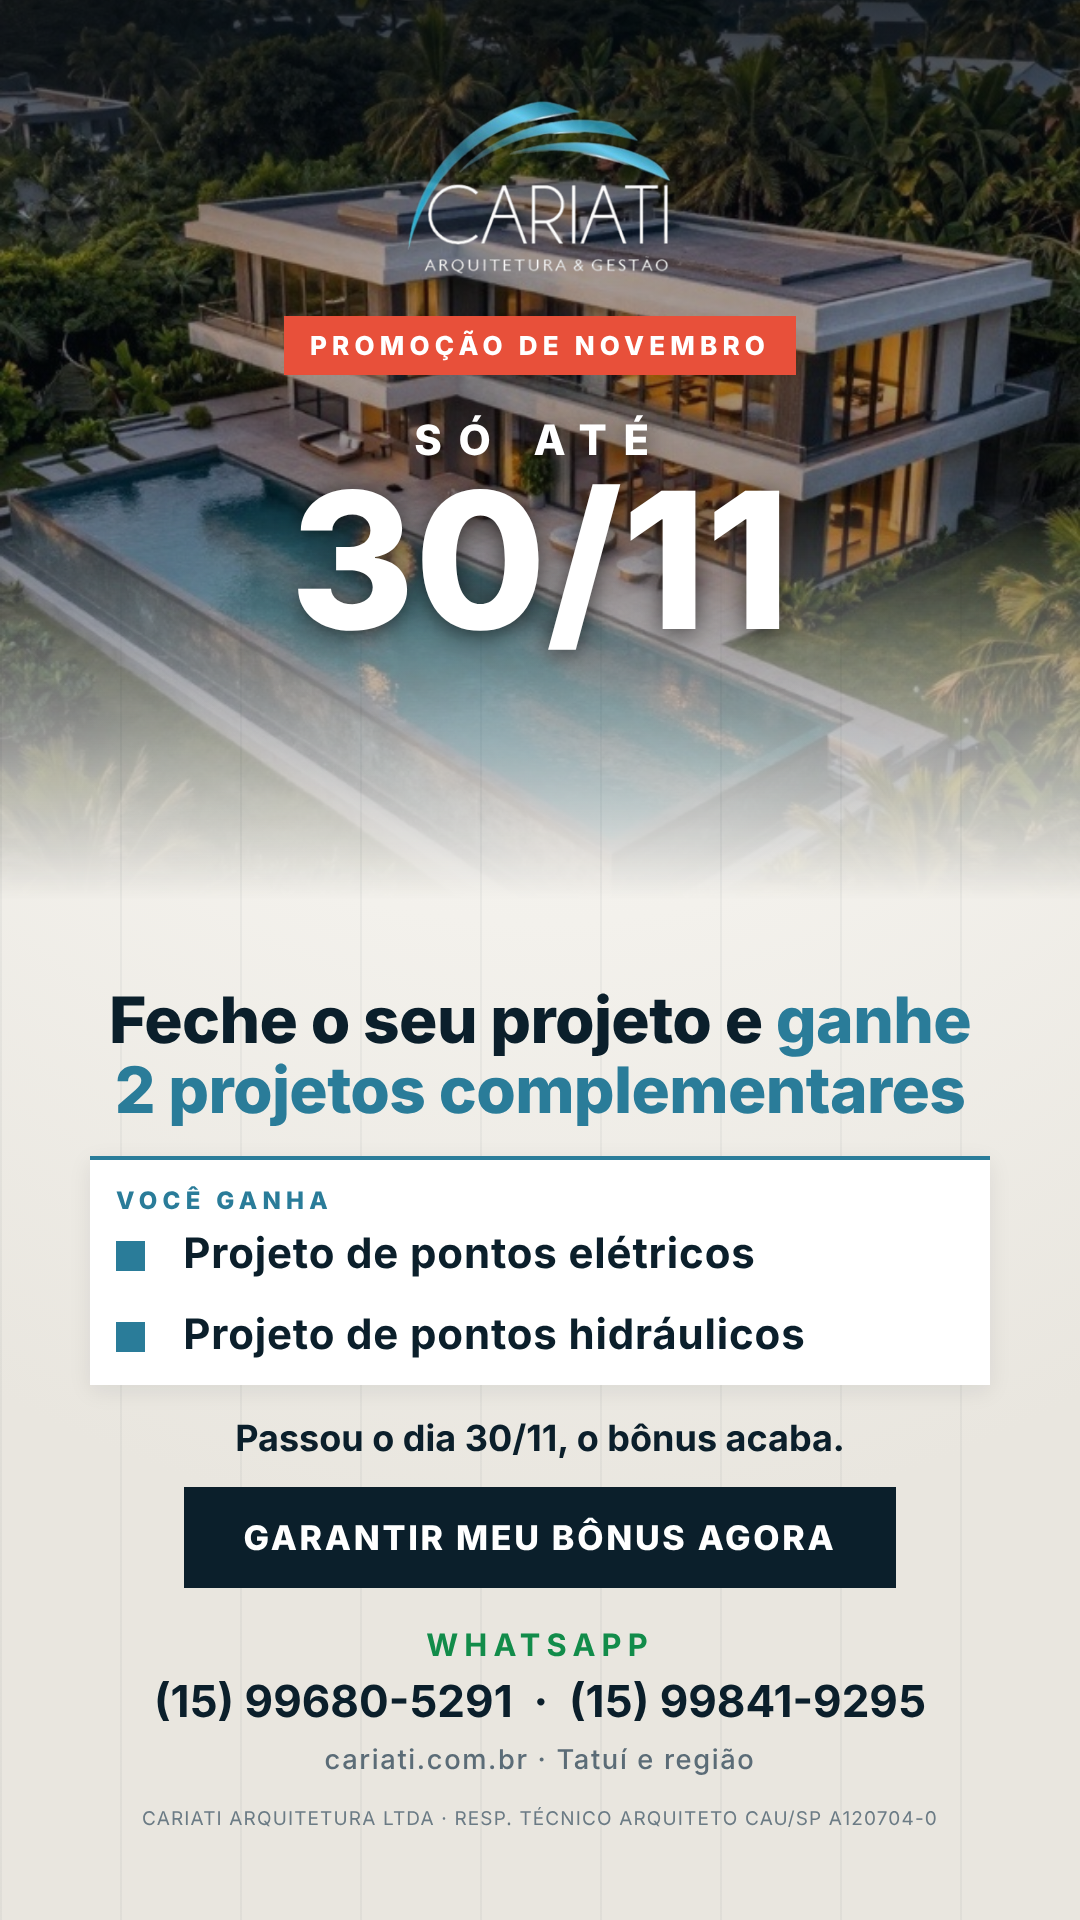
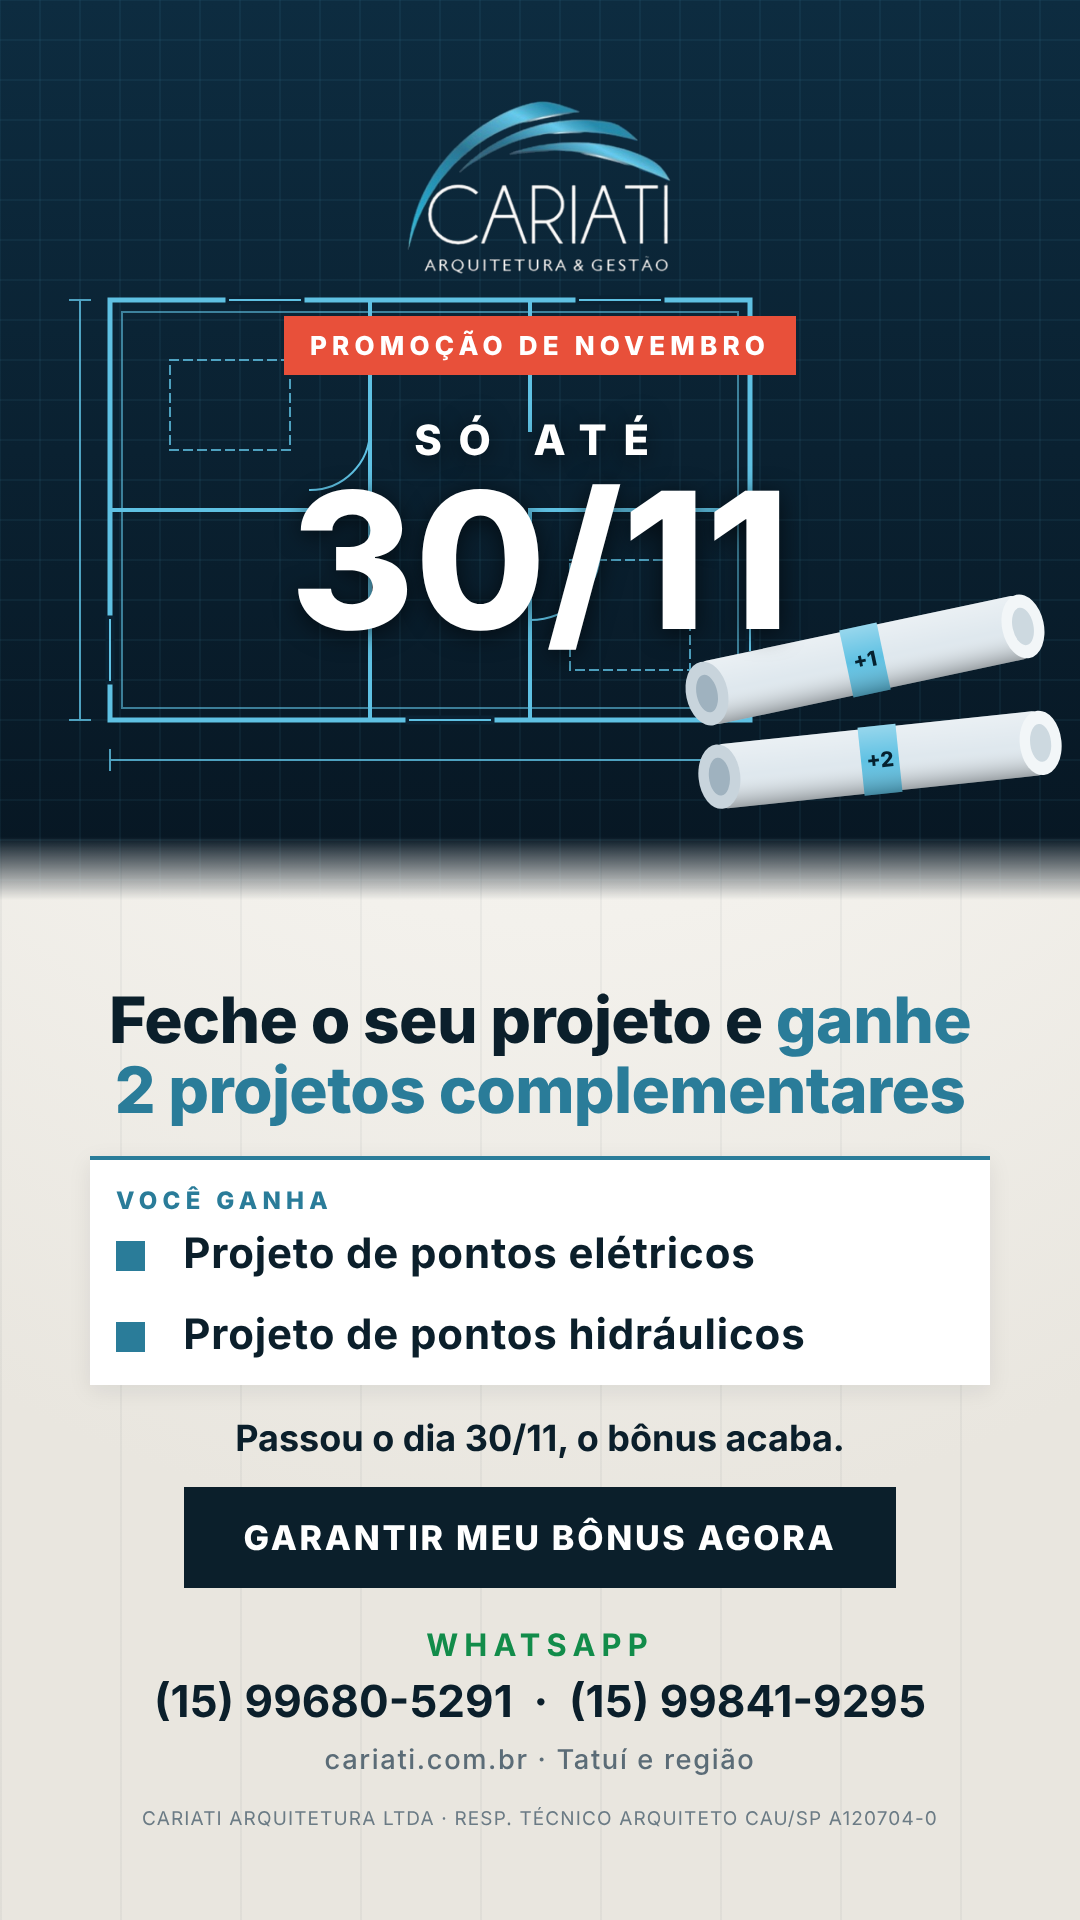
Promo November: blueprint background with two bonus plan rolls (+1, +2)
Claude-Session: https://claude.ai/code/session_012W4cPJrLBDcgKi33Cw4yCm

diff --git a/flyers_cariati/build.py b/flyers_cariati/build.py
@@ -42,6 +42,8 @@ h1 em{font-style:normal;color:#5fc1e3}
 .hero{position:absolute;left:0;top:0;width:100%;height:var(--hh);background-size:cover;background-position:center 35%}
 .hero{-webkit-mask-image:linear-gradient(180deg,#000 55%,transparent 100%);mask-image:linear-gradient(180deg,#000 55%,transparent 100%)}
 .hero:after{content:'';position:absolute;inset:0;background:linear-gradient(180deg,rgba(3,10,16,.78) 0%,rgba(3,10,16,.35) 30%,rgba(3,10,16,.45) 100%)}
+.hero.nb:after{display:none}
+.hero.nb svg{-webkit-mask-image:linear-gradient(180deg,#000 93%,transparent);mask-image:linear-gradient(180deg,#000 93%,transparent)}
 .ov{color:#fff;text-shadow:0 4px 24px rgba(0,0,0,.6)}
 .ovs{font-weight:800;letter-spacing:.4em;font-size:calc(var(--ds)*.22)}
 .ovd{font-weight:800;font-size:var(--ds);line-height:1}
@@ -167,12 +169,29 @@ def dica(n,hook,corpo,pratica):
             return '<img class="logo z" src="assets/logo.png" style="height:130px;align-self:flex-start">'+flex()+tag+sp(30)+h+sp(40)+'<div class="rule" style="margin:0"></div>'+sp(40)+body+sp(46)+box+flex()+sig+small+sp(10)
         return '<img class="logo z" src="assets/logo.png" style="height:100px;align-self:flex-start">'+flex()+tag+sp(18)+h+sp(26)+body+sp(34)+box+flex()+sig+small
     return fn
+
+def blueprint(H,ry,rs):
+    W=1080
+    g="".join(f'<line x1="{x}" y1="0" x2="{x}" y2="{H}"/>' for x in range(0,W,40))+"".join(f'<line x1="0" y1="{y}" x2="{W}" y2="{y}"/>' for y in range(0,H,40))
+    t=H*0.2
+    plan=f"""<g transform="translate(110,{t:.0f}) scale({H/900:.3f})" fill="none" stroke="#5fc1e3" stroke-width="5" stroke-linecap="square">
+<rect x="0" y="120" width="640" height="420"/><rect x="12" y="132" width="616" height="396" stroke-width="2" opacity=".6"/>
+<path d="M0 330H260M260 120V330M260 330V540M420 330H640M420 330V540M420 120V250" stroke-width="4"/>
+<path d="M120 120h70M470 120h80M0 440v60M640 400v70M300 540h80" stroke="#0a2233" stroke-width="9"/>
+<path d="M120 120h70M470 120h80M0 440v60M640 400v70M300 540h80" stroke-width="2"/>
+<path d="M260 250a60 60 0 0 1 -60 60" stroke-width="2"/><path d="M420 440a70 70 0 0 0 70 -70" stroke-width="2"/>
+<g stroke-width="2" opacity=".8"><path d="M0 580H640M0 570v20M640 570v20M-30 120V540M-40 120h20M-40 540h20"/><path d="M60 180h120v90H60zM460 380h120v110H460z" stroke-dasharray="8 6"/></g>
+</g>"""
+    def roll(cx,cy,rot,label,sc=1):
+        return f"""<g transform="translate({cx},{cy}) rotate({rot}) scale({sc})"><rect x="-170" y="-34" width="340" height="68" rx="6" fill="#dfe8ee"/><rect x="-170" y="-34" width="340" height="68" rx="6" fill="url(#shade)"/><ellipse cx="-170" cy="0" rx="22" ry="34" fill="#c8d4dc"/><ellipse cx="-170" cy="0" rx="11" ry="20" fill="#9fb2bf"/><ellipse cx="170" cy="0" rx="22" ry="34" fill="#f2f6f8"/><ellipse cx="170" cy="0" rx="11" ry="20" fill="#cdd9e0"/><rect x="-20" y="-36" width="40" height="72" fill="#5fc1e3"/><rect x="-20" y="-36" width="40" height="72" fill="url(#shade)"/><text x="0" y="8" text-anchor="middle" font-family="Inter,sans-serif" font-weight="800" font-size="22" fill="#05212f" transform="rotate(0)">{label}</text></g>"""
+    rolls=roll(W-215,ry,-12,"+1",rs)+roll(W-200,ry+105*rs,-6,"+2",rs)
+    return f"""<svg xmlns="http://www.w3.org/2000/svg" viewBox="0 0 {W} {H}" width="{W}" height="{H}" style="position:absolute;left:0;top:0"><defs><linearGradient id="bg" x1="0" y1="0" x2="0" y2="1"><stop offset="0" stop-color="#0d2c40"/><stop offset="1" stop-color="#071622"/></linearGradient><linearGradient id="shade" x1="0" y1="0" x2="0" y2="1"><stop offset="0" stop-color="#fff" stop-opacity=".35"/><stop offset=".5" stop-color="#fff" stop-opacity="0"/><stop offset="1" stop-color="#000" stop-opacity=".3"/></linearGradient></defs><rect width="{W}" height="{H}" fill="url(#bg)"/><g stroke="#5fc1e3" stroke-opacity=".13" stroke-width="1">{g}</g>{plan}{rolls}</svg>"""
 # promo outubro (clientes com orçamento de projeto)
 def fpromo(vert):
     bonus=lambda t:f'<li>{t}</li>'
     bl=bonus("Projeto de pontos elétricos")+bonus("Projeto de pontos hidráulicos")
     box=f'<div class="card z promo" style="text-align:left"><div class="l" style="letter-spacing:.22em;font-size:calc(var(--cl)*.8)">VOCÊ GANHA</div><ul class="list" style="margin-top:12px">{bl}</ul></div>'
-    hero="<div class='hero' style=\"background-image:url('assets/casa_piscina.jpg')\"></div>"
+    hero="<div class='hero nb' style='background:none;-webkit-mask-image:none;mask-image:none'>"+blueprint(900 if vert else 430, 660 if vert else 262, 0.95 if vert else 0.72)+"</div>"
     lg='<img class="logo z" src="assets/logo_branco.png" style="height:var(--lh);align-self:center">'
     urg='<div class="z" style="align-self:center"><span class="urg">Promoção de novembro</span></div>'
     date='<div class="z ov" style="text-align:center"><div class="ovs">SÓ ATÉ</div><div class="ovd">30/11</div></div>'
